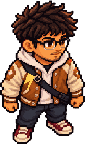
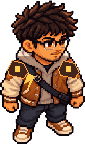
art: sharpen Jão fire and plasma forms; document Pages check

diff --git a/scripts/make_jao_forms.py b/scripts/make_jao_forms.py
@@ -22,7 +22,14 @@ for pose in POSES:
         for y in range(image.height):
             for x in range(image.width):
                 r, g, b, a = pixels[x, y]
-                if a < 20 or not jacket(r, g, b, y):
+                if a < 20:
+                    continue
+                if 56 <= y <= 111 and r > 160 and g > 130 and b > 115 and max(r, g, b) - min(r, g, b) < 75:
+                    # Hoodie/sleeves darken with the evolved armor; skin stays untouched.
+                    pixels[x, y] = (int(r * .70), int(g * .63), int(b * .57), a) if form == 'fire' else (int(r * .79), int(g * .72), int(b * .88), a)
+                if y > 113 and jacket(r, g, b, 80):
+                    pixels[x, y] = (min(255, int(r * .82 + 54)), int(r * .43 + 13), int(r * .14 + 4), a) if form == 'fire' else (int(r * .68 + 35), int(r * .23 + 9), int(r * .68 + 50), a)
+                if not jacket(r, g, b, y):
                     continue
                 if form == 'fire':
                     # Soot-dark coat with molten amber seams instead of a floating aura.
@@ -33,6 +40,11 @@ for pose in POSES:
         draw = ImageDraw.Draw(image)
         cx = image.width // 2
         emblem = (255, 206, 81, 255) if form == 'fire' else (255, 149, 222, 255)
+        edge = (255, 170, 67, 255) if form == 'fire' else (219, 119, 246, 255)
+        armor = (64, 36, 28, 255) if form == 'fire' else (48, 27, 68, 255)
+        for left in (7, image.width - 27):
+            draw.polygon([(left, 69), (left + 5, 60), (left + 16, 63), (left + 21, 72), (left + 16, 78), (left + 2, 75)], fill=armor, outline=edge)
+            draw.rectangle((left + 8, 66, left + 12, 71), fill=emblem)
         if pose == 'jao-back':
             draw.polygon([(cx, 69), (cx - 4, 79), (cx, 77), (cx - 1, 86), (cx + 5, 72)], fill=emblem)
         else:

diff --git a/docs/HANDOFF.md b/docs/HANDOFF.md
@@ -53,4 +53,6 @@ Esta seção substitui o estado de baús de armas e kit compartilhado descrito h
 
 O MVP corrigiu o nome da arqueira para **Alice** e pediu implementar uma primeira versão da nova estrutura. Ver [08 · Masmorras e relíquias](08-MASMORRAS-E-RELIQUIAS.md). A regra atual usa cinco fases por mundo, chefe na quinta, baú nas fases 1 e 3, altar nas 2 e 4; ao vencer os mundos 1 e 2 avança, e no fim do 3 escolhe encerrar ou continuar. Gui agora usa cartas, Jão espada com arco de alcance curto, Alice flechas. Os itens de baú aumentam vida, escudo, energia ou regeneração. Seis altares até o chefe do mundo 3 possibilitam 3 + 3. Plasma e Lodo são as primeiras fusões jogáveis; Fogo 5 do Jão muda sprite e habilidade, e Raio 5 conserva o corte atravessado. Demais misturas e formas ficam para expansão.
 
-`npm run typecheck`, `npm test` e `npm run build` passaram localmente em 12/10/2026. Testes de 100 seeds cobrem a nova agenda de três mundos, portas, spawns e extensão determinística do quarto mundo; regras cobrem equipamentos, continuidade de duas afinidades e as duas fusões. Ainda requer verificar Pages, chefes/transições e Android físico. A Cripta reutiliza provisoriamente cenário recolorido. O script de variantes do Jão precisa de Pillow apenas para regenerar sprites fonte; a build do jogo usa PNGs já gerados e só exige Node.
+`npm run typecheck`, `npm test` e `npm run build` passaram localmente em 12/10/2026. Testes de 100 seeds cobrem a nova agenda de três mundos, portas, spawns e extensão determinística do quarto mundo; regras cobrem equipamentos, continuidade de duas afinidades e as duas fusões. Ainda requer percurso longo no Pages, chefes/transições e Android físico. A Cripta reutiliza provisoriamente cenário recolorido. O script de variantes do Jão precisa de Pillow apenas para regenerar sprites fonte; a build do jogo usa PNGs já gerados e só exige Node.
+
+O commit [`50e35a8`](https://github.com/JaoDaJunq/Junq_SoulKnight/commit/50e35a899dff615ad5da45569730a51fca1b2cb7) publicou o primeiro lote. O [Pages](https://jaodajunq.github.io/Junq_SoulKnight/) serviu `assets/index-OLePP89d.js`, idêntico ao build local. No Chrome desktop a seleção abriu, Gui lançou carta retangular, e a seed 2 permitiu limpar o mundo 1, fase 1/5. O baú mostrou Anel Vital, Runa de Fluxo e Pingente; escolher Anel Vital atualizou o HUD para nível 1 e seis corações máximos. O Jão mostrou golpe visual curto e movimento lateral. A passagem para 2/5, o chefe em 5/5, a transição entre mundos, formas evoluídas em run e Android físico não foram percorridos visualmente; as regras de geração e afinidade foram testadas localmente. O primeiro clique de escolha no canvas às vezes só foca a área, como na versão anterior.

diff --git a/CREDITS.md b/CREDITS.md
@@ -10,7 +10,7 @@
 | Quatro imagens de conceito visual v0.2 em `docs/visual/` | Geradas para este projeto com ferramenta de imagem a partir de fotos fornecidas pelo MVP como referência de Jão, Alice e Gui; direção e seleção nesta documentação. Fotos originais não incluídas no repositório. | Conceitos aprovados como direção; os mockups não são carregados na build. Não incorporam imagens de Soul Knight. |
 | Abertura, taverna, salas do Átrio e da Forja, sprites de Jão/Alice/Gui e poses de caminhada em `src/assets/` | Gerados para este projeto a partir da direção visual aprovada e das fotos fornecidas pelo MVP. Recortados e otimizados para uso na build; fotos originais não publicadas. | Assets originais deste projeto, sem imagem de Soul Knight incorporada. |
 | Diabrete de Brasa, Acólito do Véu, Olho da Forja, Guardião de Musgo e Vigia do Sino em `src/assets/` | Criaturas geradas para este jogo, recortadas e otimizadas; comportamento implementado no código. | Assets originais deste projeto, sem imagem de Soul Knight incorporada. |
-| Jão Fogo e Plasma, oito poses em `src/assets/` | Derivadas dos sprites aprovados do Jão por troca de paleta do casaco e insígnia de tecido com `scripts/make_jao_forms.py`. Nenhuma foto adicional foi publicada. | Derivação original deste projeto. |
+| Jão Fogo e Plasma, oito poses em `src/assets/` | Derivadas dos sprites aprovados do Jão por troca de paleta da roupa, ombreiras e insígnia com `scripts/make_jao_forms.py`. Nenhuma foto adicional foi publicada. | Derivação original deste projeto. |
 | Engine e build | Phaser 3, TypeScript e Vite | Dependências sob suas licenças próprias no lockfile e pacotes. |
 
 Soul Knight é referência de ritmo e mecânicas. Não são usados seus personagens, sprites, músicas, logotipo ou mapas. Os repositórios e pacotes listados em `docs/05-PESQUISA-BASES.md` foram estudados, sem código ou assets copiados para este jogo.

diff --git a/docs/08-MASMORRAS-E-RELIQUIAS.md b/docs/08-MASMORRAS-E-RELIQUIAS.md
@@ -29,12 +29,14 @@ Armas não são sorteadas. Jão inicia com espada, Alice com arco e Gui com cart
 
 São sete elementos, todos em zero no começo. Os altares das fases 2 e 4 oferecem seis fragmentos até o chefe do mundo 3. Dois elementos já investidos permanecem entre as três opções quando ainda podem crescer; a terceira varia. Isso permite perseguir 3 + 3 sem depender de sorte depois da decisão inicial.
 
-- **Jão Fogo 5:** roupa muda para casaco de tons de carvão e brasa; a habilidade faz um corte e uma explosão em torno do alvo. As poses frontal, traseira e laterais recebem a mesma transformação. É a primeira evolução visual prototipada, sem aura externa.
+- **Jão Fogo 5:** roupa muda para casaco de tons de carvão e brasa, com ombreiras; a habilidade faz um corte e uma explosão em torno do alvo. As poses frontal, traseira e laterais recebem a mesma transformação. É a primeira evolução visual prototipada, sem aura externa.
 - **Jão Raio 5:** mantém o corte que atravessa o alvo e termina atrás dele quando há espaço.
 - **Plasma, Fogo 3 + Raio 3:** tiros/ondas rosados mais rápidos e fortes; habilidade ganha impacto aumentado. A forma do Jão muda para casaco violeta com detalhe luminoso. O efeito de cada herói usa sua arma original.
 - **Lodo, Água 3 + Terra 3:** tiros esverdeados causam lentidão breve; a habilidade causa lentidão maior na área ou alvo atingido.
 
 As outras misturas continuam com o bônus híbrido de dano e cor alternada. Elas **ainda não recebem nome, status ou habilidade exclusivos no código**. Se algum elemento chega a nível 5, o domínio puro tem prioridade sobre uma sinergia ativa. As árvores completas de cada herói, os pares restantes e os designs de outras formas são a próxima expansão, sujeitos a playtest.
+
+![Comparação das primeiras formas do Jão](visual/jao-formas-v0.png)
 
 ## Aceite desta etapa
 
